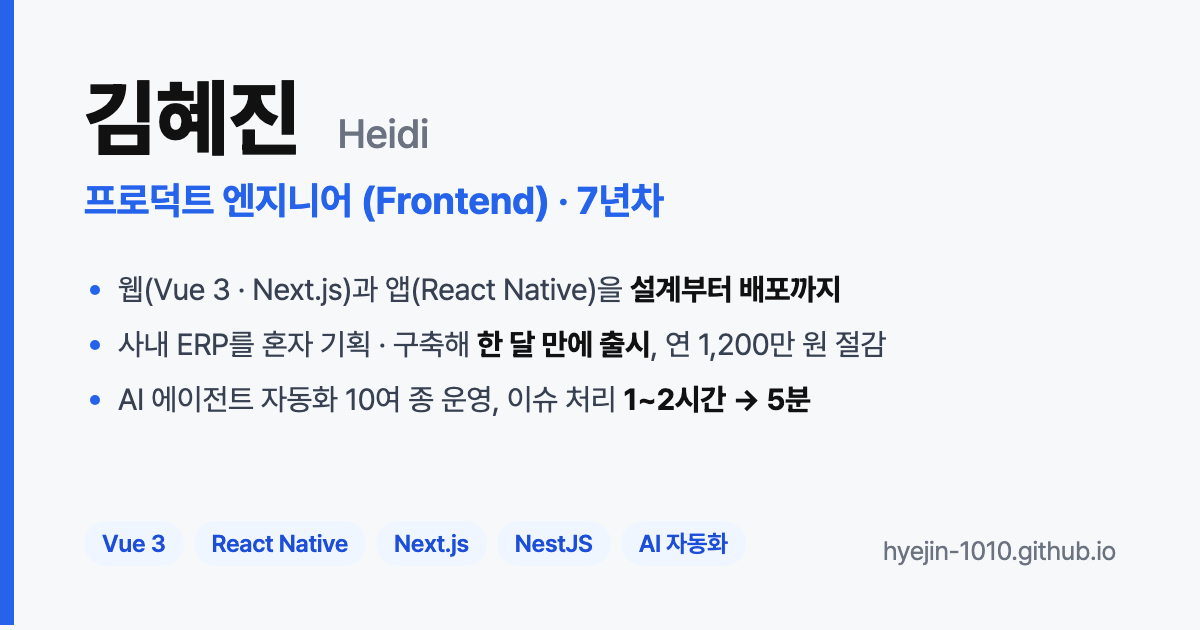
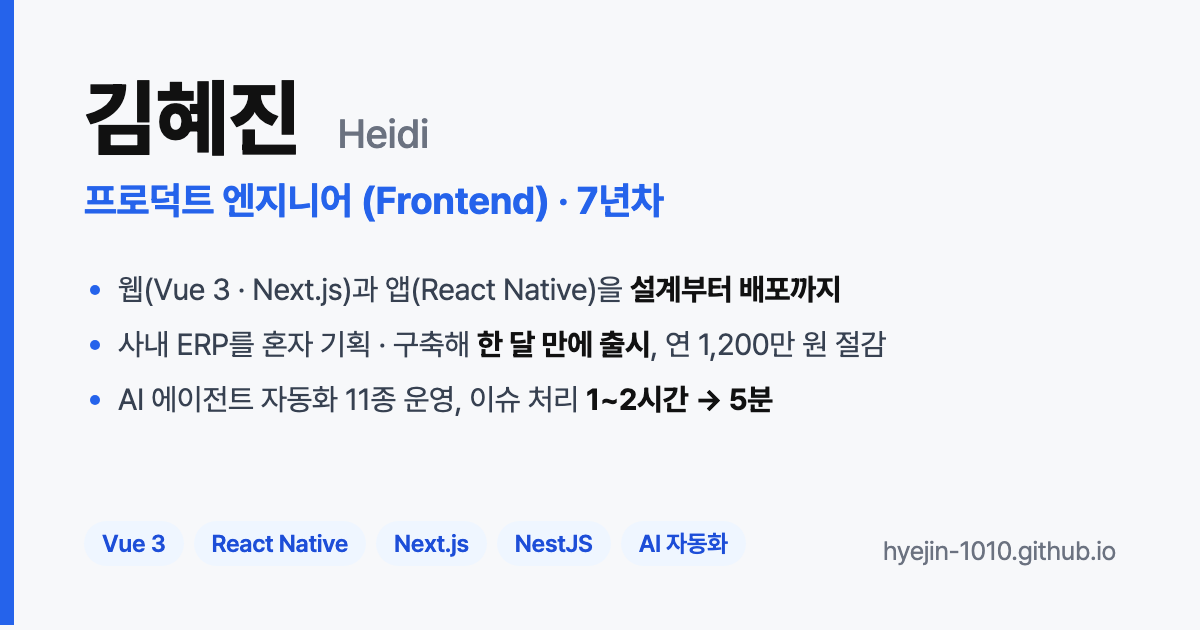
Traefik 제거, RN 전환 시점 2025.11 명시, 핀페이 React, 자동화 11종

Changed region(s): [[0.2775, 0.6032, 0.6783, 0.6635]]

diff --git a/index.html b/index.html
@@ -4,11 +4,11 @@
 <meta charset="UTF-8" />
 <meta name="viewport" content="width=device-width, initial-scale=1.0" />
 <title>김혜진 (Heidi) · 프로덕트 엔지니어</title>
-<meta name="description" content="웹(Vue 3 · Next.js)과 앱(React Native)을 설계부터 배포까지 담당하였으며, 사내 ERP를 한 달 만에 출시하고, AI 에이전트 자동화 10여 종을 운영하는 7년차 프로덕트 엔지니어" />
+<meta name="description" content="웹(Vue 3 · Next.js)과 앱(React Native)을 설계부터 배포까지 담당하였으며, 사내 ERP를 한 달 만에 출시하고, AI 에이전트 자동화 11종을 운영하는 7년차 프로덕트 엔지니어" />
 <!-- 링크 미리보기(카톡 · 슬랙 · 노션) -->
 <meta property="og:type" content="website" />
 <meta property="og:title" content="김혜진 (Heidi) · 프로덕트 엔지니어 (Frontend)" />
-<meta property="og:description" content="웹(Vue 3 · Next.js) · 앱(React Native) 설계부터 배포까지 · 사내 ERP 한 달 만에 출시 · AI 에이전트 자동화 10여 종 운영" />
+<meta property="og:description" content="웹(Vue 3 · Next.js) · 앱(React Native) 설계부터 배포까지 · 사내 ERP 한 달 만에 출시 · AI 에이전트 자동화 11종 운영" />
 <meta property="og:url" content="https://hyejin-1010.github.io/" />
 <meta property="og:image" content="https://hyejin-1010.github.io/images/og.png" />
 <meta property="og:image:width" content="1200" />
@@ -16,7 +16,7 @@
 <meta property="og:locale" content="ko_KR" />
 <meta name="twitter:card" content="summary_large_image" />
 <meta name="twitter:title" content="김혜진 (Heidi) · 프로덕트 엔지니어 (Frontend)" />
-<meta name="twitter:description" content="웹(Vue 3 · Next.js) · 앱(React Native) 설계부터 배포까지 · 사내 ERP 한 달 만에 출시 · AI 에이전트 자동화 10여 종 운영" />
+<meta name="twitter:description" content="웹(Vue 3 · Next.js) · 앱(React Native) 설계부터 배포까지 · 사내 ERP 한 달 만에 출시 · AI 에이전트 자동화 11종 운영" />
 <meta name="twitter:image" content="https://hyejin-1010.github.io/images/og.png" />
 <link rel="stylesheet" href="https://cdn.jsdelivr.net/gh/orioncactus/pretendard@v1.3.9/dist/web/variable/pretendardvariable-dynamic-subset.min.css" />
 <style>
@@ -171,7 +171,7 @@
       웹(Vue 3 · Next.js)과 앱(React Native)의 설계부터 배포까지 담당하였으며, 팀이 반복하던 일을 AI 에이전트 자동화로 전환해 온 7년차 프로덕트 엔지니어입니다.
       건설 일용직 HR 플랫폼 '가다'에서 백오피스 초기 설계와 모바일 앱의 React Native 전환을 주도하였고,
       사내 ERP를 혼자 기획 · 구축해 한 달 만에 출시하였습니다.
-      개발 자동화 10여 종을 단독 운영하며, 2026년 8월부터 기획 · 프론트 · 백엔드로 이루어진 3인 파트의 파트장을 맡고 있습니다.
+      개발 자동화 11종을 단독 운영하며, 2026년 8월부터 기획 · 프론트 · 백엔드로 이루어진 3인 파트의 파트장을 맡고 있습니다.
     </p>
     <div class="contact">
       <a href="mailto:hyepago@gmail.com">✉ hyepago@gmail.com</a>
@@ -209,7 +209,7 @@
       <div class="chips"><span class="chip">React Native</span><span class="chip">TanStack Query</span><span class="chip">Zustand</span><span class="chip">NativeWind</span><span class="chip">Flutter</span></div>
     </div>
     <div class="skill-group"><h3>개발 생산성 · 인프라</h3>
-      <div class="chips"><span class="chip">Fastlane</span><span class="chip">Bitbucket Pipelines</span><span class="chip">OTA (Hot Updater)</span><span class="chip">Docker · Traefik</span><span class="chip">Jest</span><span class="chip">Playwright · Maestro</span><span class="chip">Claude Code 에이전트 오케스트레이션</span></div>
+      <div class="chips"><span class="chip">Fastlane</span><span class="chip">Bitbucket Pipelines</span><span class="chip">OTA (Hot Updater)</span><span class="chip">Docker</span><span class="chip">Jest</span><span class="chip">Playwright · Maestro</span><span class="chip">Claude Code 에이전트 오케스트레이션</span></div>
     </div>
     <div class="skill-group"><h3>BACKEND (확장 중)</h3>
       <div class="chips"><span class="chip">NestJS · Prisma · MySQL</span><span class="chip">FastAPI · Python</span><span class="chip">Laravel · PHP</span></div>
@@ -225,7 +225,7 @@
   <article class="project flagship">
     <span class="flag">FLAGSHIP</span>
     <h3>가다 앱 · Flutter 유지보수 → React Native 전환</h3>
-    <div class="meta"><span><b>2023.11 ~ 현재</b></span><span>RN 전환 · 초기 구조 단독 주도 → 이후 공동 개발</span></div>
+    <div class="meta"><span><b>2023.11 ~ 현재</b> · Flutter 유지보수 2023.11~2025.11 → RN 전환 2025.11~</span><span>RN 전환 · 초기 구조 단독 주도 → 이후 공동 개발</span></div>
     <p class="desc">
       2년간 유지보수하던 Flutter 앱의 구조적 한계(기술 부채 · 두 언어 병행 · 레포 분리)를 근거로 React Native 전환을 직접 제안하였고,
       기본 구조 설계부터 배포 파이프라인까지 처음부터 구축하였습니다. 근로자앱 · 관리자앱을 단일 모노레포로 통합하였습니다.
@@ -260,7 +260,7 @@
     <div class="meta"><span><b>2024.06 ~ 현재</b></span><span>단독 설계 · 구축 · 운영</span></div>
     <p class="desc">
       프론트 2명 팀의 반복 작업(이슈 처리 · 배포 상태 관리 · 크래시 트리아지 · 정형 문서 생성)을
-      AI 에이전트를 오케스트레이션하는 자동화 시스템으로 옮겼습니다. 이슈 · 배포 · 문서 · 리포트 등 자동화 10여 종을 상시 구동하고, 이를 감시하는 워치독 4종을 별도로 두어 단독 운영합니다.
+      AI 에이전트를 오케스트레이션하는 자동화 시스템으로 옮겼습니다. 이슈 · 배포 · 문서 · 리포트 등 자동화 11종을 상시 구동하고, 이를 감시하는 워치독 4종을 별도로 두어 단독 운영합니다.
     </p>
     <ul>
       <li><strong>이슈 → PR → 배포 루프 무인화</strong>: 크래시 자동 이슈화 → AI 코드작업 · PR 생성 → 사람은 리뷰 · 머지만. 이슈당 개발자 1~2시간 들던 처리가 경미한 이슈 기준 확인 · 리뷰 5분 이내로 단축</li>
@@ -347,7 +347,7 @@
     <div class="meta"><span><b>2026.08 ~ 현재</b></span><span>발제 · 기획 · 구축 단독</span></div>
     <p class="desc">
       누가 시켜서가 아니라 "이런 도구가 있으면 좋겠다" 싶은 것들을 직접 만들어 올리는 사내 실험실 플랫폼입니다.
-      하나의 게이트웨이(Traefik) 뒤에 도구별 스택을 독립 컨테이너로 붙였다 뗄 수 있게 설계해 새 도구를 부담 없이 실험하고, 검증된 것은 남깁니다.
+      하나의 게이트웨이 뒤에 도구별 스택을 독립 컨테이너로 붙였다 뗄 수 있게 설계해 새 도구를 부담 없이 실험하고, 검증된 것은 남깁니다.
       개발 · 운영은 혼자, 사용자는 팀 전체입니다. 필요해서 시작한 도구들이 지금은 팀의 일상 도구가 되었습니다.
     </p>
     <ul>
@@ -356,7 +356,7 @@
       <li><strong>근로자 행동 히트맵</strong>: 화면별 사용자 행동을 시각화한 사내 첫 행동 데이터 도구. UX 개선의 근거 제공</li>
       <li><strong>봇 실시간 대시보드</strong>: 자동화 봇이 지금 어떤 작업을 어느 단계까지 진행 중인지 추적</li>
     </ul>
-    <div class="stack"><span>FastAPI</span><span>Vue 3</span><span>Docker</span><span>Traefik</span></div>
+    <div class="stack"><span>FastAPI</span><span>Vue 3</span><span>Docker</span></div>
   </article>
 
   <article class="project">
@@ -395,7 +395,7 @@
         <li>A4 문서의 화면 크기별 scale 자동 계산 composable</li>
       </ul>
     </div>
-    <div class="mini"><h4>가다 핀페이</h4><div class="meta">2025.05 ~ 2026.06 · 기능 개발 참여</div><p>임금 선지급 · 상환 정산 핀테크 어드민.</p>
+    <div class="mini"><h4>가다 핀페이</h4><div class="meta">2025.05 ~ 2026.06 · 기능 개발 참여</div><p>임금 선지급 · 상환 정산 핀테크 어드민 (React).</p>
       <ul>
         <li>직접지급 방식 추가, 은행별(전북 · iM · 하나) 분기 대응</li>
         <li>이체 승인 요청 플로우: 개별 · 일괄 승인, 상태별 활성화 처리</li>
